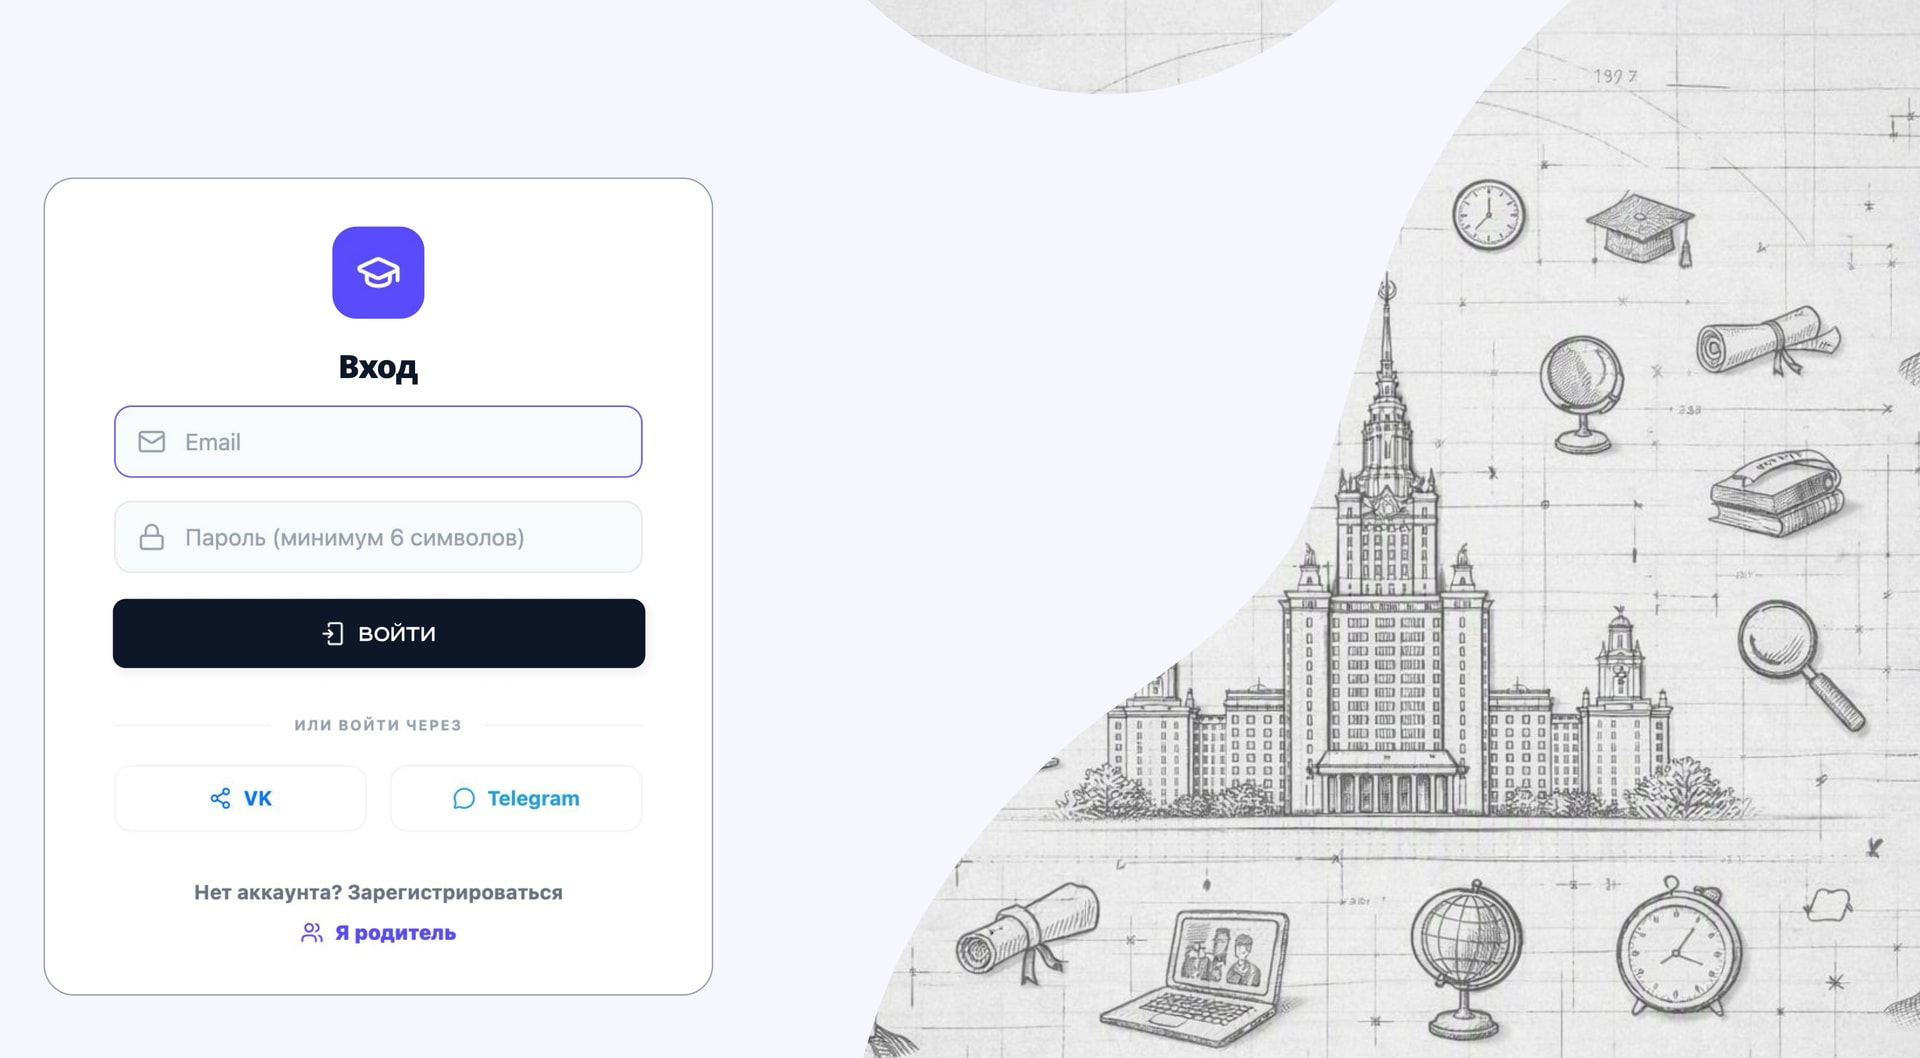
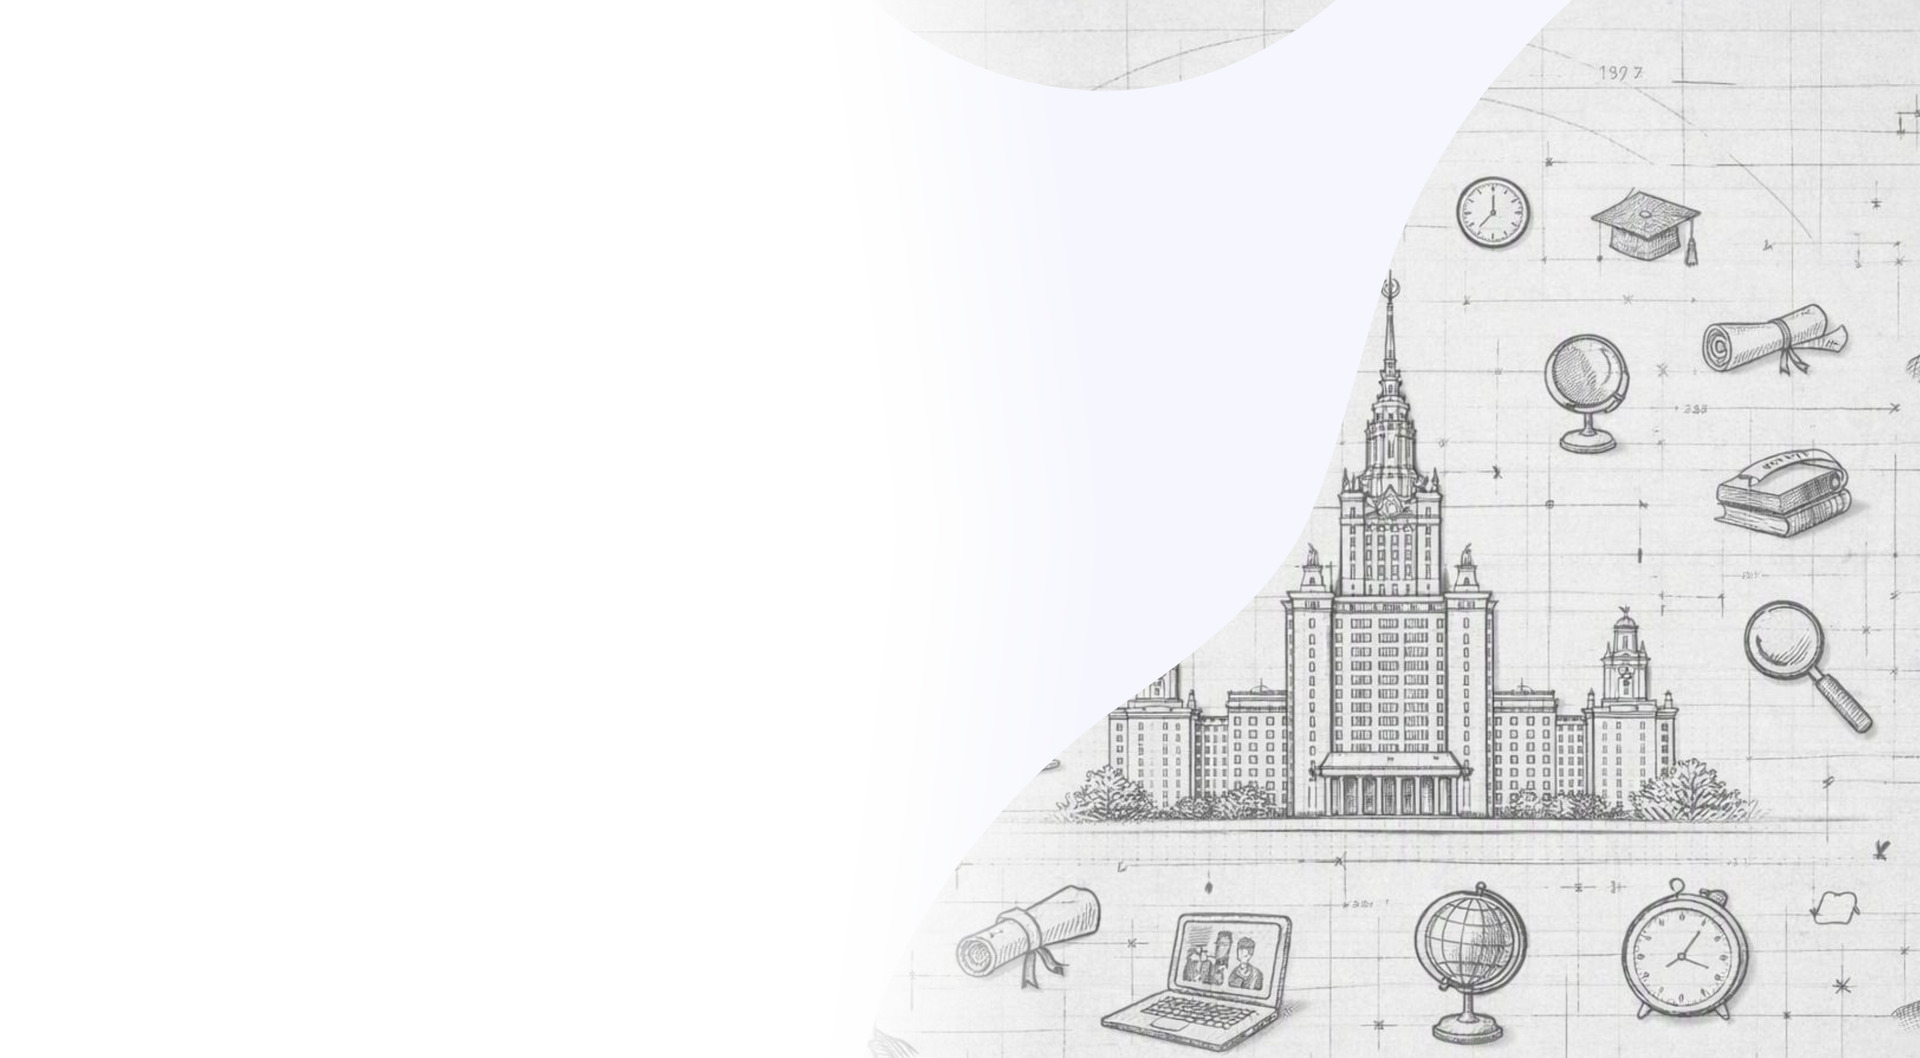
Fix double login form: clean bg + Figma 1:1 card.
Rebuild login-bg.jpg with white left (no baked form UI) and polish Login.tsx to a single interactive card matching Figma.

diff --git a/school-frontend/src/pages/Login.tsx b/school-frontend/src/pages/Login.tsx
@@ -1,21 +1,30 @@
 import { useState } from 'react';
 import { useNavigate } from 'react-router-dom';
-import { Mail, Lock, LogIn, Loader2, GraduationCap, Users, MessageCircle, User } from 'lucide-react';
+import { Mail, Lock, LogIn, Loader2, GraduationCap, Users, User } from 'lucide-react';
 import { decodeJwtPayload, setAuthTokens } from '../lib/auth';
 import { publicApi } from '../lib/api';
 
 type Mode = 'login' | 'register_student' | 'register_parent';
 
-/** Figma «Страница – вход» */
+/** Figma «Страница – вход» — exact field styles */
 const inputBase =
   'w-full pl-11 pr-4 py-[14px] rounded-[12px] outline-none font-medium text-[15px] text-[#1A1D26] placeholder:text-[#A0A4B0] transition-all';
 const inputIdle = `${inputBase} bg-[#F3F4F8] border border-transparent focus:bg-white focus:border-[#B8B4FF]`;
+/** Email in Figma mock: white fill + soft purple border (active/focused look) */
 const inputActive = `${inputBase} bg-white border border-[#B8B4FF] focus:border-[#6C63FF]`;
 
 function VkIcon({ className = 'w-5 h-5' }: { className?: string }) {
   return (
     <svg className={className} viewBox="0 0 24 24" fill="currentColor" aria-hidden>
       <path d="M12.785 16.241s.288-.032.436-.194c.136-.148.132-.427.132-.427s-.02-1.304.587-1.496c.596-.19 1.363 1.26 2.174 1.818.613.422 1.078.33 1.078.33l2.163-.03s1.13-.07.594-.958c-.044-.072-.312-.658-1.61-1.86-1.36-1.26-1.177-1.055.46-3.234.997-1.326 1.396-2.136 1.271-2.483-.119-.33-.85-.243-.85-.243l-2.437.015s-.18-.025-.314.056c-.13.078-.214.26-.214.26s-.384 1.022-.895 1.89c-1.078 1.83-1.51 1.928-1.687 1.814-.41-.266-.308-1.07-.308-1.64 0-1.782.27-2.523-.527-2.715-.265-.064-.46-.106-1.138-.113-.87-.009-1.605.003-2.022.207-.278.136-.492.438-.361.456.162.022.528.099.723.364.251.343.242 1.114.242 1.114s.144 2.115-.337 2.377c-.33.18-.783-.187-1.757-1.862-.498-.857-.874-1.806-.874-1.806s-.072-.177-.202-.272c-.157-.115-.377-.151-.377-.151l-2.316.015s-.347.01-.475.16c-.114.134-.009.41-.009.41s1.804 4.222 3.845 6.35c1.872 1.95 3.995 1.822 3.995 1.822h.964z" />
+    </svg>
+  );
+}
+
+function TelegramIcon({ className = 'w-5 h-5' }: { className?: string }) {
+  return (
+    <svg className={className} viewBox="0 0 24 24" fill="currentColor" aria-hidden>
+      <path d="M21.5 3.4 2.9 10.6c-1.3.5-1.3 1.2-.2 1.5l4.7 1.5 1.8 5.6c.2.7.4 1 1 1 .6 0 .9-.3 1.2-.6l2.8-2.7 5.8 4.3c1.1.6 1.8.3 2.1-1l3.4-16c.3-1.3-.5-1.9-1.6-1.5zM9.4 14.7l-.2 3.2-1.3-4.4 12.4-7.8-11 9z" />
     </svg>
   );
 }
@@ -76,26 +85,24 @@ export default function Login() {
   const title =
     mode === 'login' ? 'Вход' : mode === 'register_student' ? 'Регистрация' : 'Аккаунт родителя';
 
-  const emailLooksActive = mode === 'login';
-
   return (
-    <div className="relative min-h-[100dvh] w-full overflow-hidden font-sans bg-white lg:bg-[#E8E8EC]">
-      {/* Desktop: full-bleed Figma composition — overscan so edges stay flush */}
+    <div className="relative min-h-[100dvh] w-full overflow-hidden font-sans bg-white">
+      {/*
+        Desktop art: illustration + wave ONLY (form area painted white in login-bg.jpg).
+        One interactive card overlays the white left — never bake the form into the image.
+      */}
       <div
-        className="pointer-events-none absolute inset-0 hidden lg:block"
+        className="pointer-events-none absolute inset-0 hidden lg:block bg-white"
         style={{
-          backgroundColor: '#E8E8EC',
           backgroundImage: 'url(/login-bg.jpg)',
           backgroundSize: 'cover',
-          backgroundPosition: 'center',
+          backgroundPosition: 'center center',
           backgroundRepeat: 'no-repeat',
-          transform: 'scale(1.045)',
-          transformOrigin: 'center center',
         }}
         aria-hidden
       />
 
-      {/* Mobile background */}
+      {/* Mobile */}
       <div
         className="lg:hidden absolute inset-0"
         style={{
@@ -103,8 +110,9 @@ export default function Login() {
         }}
       />
 
-      <div className="relative z-10 min-h-[100dvh] flex items-center justify-center lg:justify-start px-4 sm:px-6 py-8 lg:pl-[7.5%] xl:pl-[9.5%]">
-        <div className="w-full max-w-[400px] bg-white border border-[#E5E7EB] rounded-[18px] shadow-[0_10px_36px_rgba(17,24,39,0.10)] px-6 py-8 sm:px-8 sm:py-9">
+      <div className="relative z-10 min-h-[100dvh] flex items-center justify-center lg:justify-start px-4 sm:px-6 py-8 lg:pl-[7%] xl:pl-[9%]">
+        {/* Single interactive card — Figma; never duplicate in background image */}
+        <div className="w-full max-w-[400px] bg-white border border-[#E8EAF0] rounded-[18px] shadow-[0_12px_40px_rgba(17,24,39,0.10)] px-6 py-8 sm:px-8 sm:py-9">
           <div className="w-12 h-12 bg-[#6C63FF] rounded-[12px] flex items-center justify-center mb-5 mx-auto shadow-[0_6px_18px_rgba(108,99,255,0.32)]">
             <GraduationCap className="w-6 h-6 text-white" strokeWidth={2} />
           </div>
@@ -170,7 +178,7 @@ export default function Login() {
                 required
                 placeholder="Email"
                 value={formData.email}
-                className={emailLooksActive ? inputActive : inputIdle}
+                className={mode === 'login' ? inputActive : inputIdle}
                 onChange={(e) => setFormData({ ...formData, email: e.target.value })}
               />
             </div>
@@ -207,7 +215,7 @@ export default function Login() {
             <button
               type="submit"
               disabled={isLoading}
-              className="w-full py-[15px] mt-1 bg-[#12151C] hover:bg-black text-white rounded-[12px] font-black uppercase tracking-[0.04em] text-[13px] sm:text-sm flex items-center justify-center gap-2.5 transition-all active:scale-[0.99] disabled:opacity-60"
+              className="w-full py-[15px] mt-1 bg-[#1A1F2B] hover:bg-[#12151C] text-white rounded-[12px] font-black uppercase tracking-[0.04em] text-[13px] sm:text-sm flex items-center justify-center gap-2.5 transition-all active:scale-[0.99] disabled:opacity-60"
             >
               {isLoading ? (
                 <Loader2 className="w-5 h-5 animate-spin" />
@@ -238,7 +246,7 @@ export default function Login() {
                   type="button"
                   className="flex items-center justify-center gap-2 py-[12px] border border-[#E6E8EF] rounded-[12px] bg-white hover:bg-[#F8F9FC] transition-all font-bold text-sm text-[#24A1DE]"
                 >
-                  <MessageCircle className="w-5 h-5" /> Telegram
+                  <TelegramIcon className="w-5 h-5" /> Telegram
                 </button>
               </div>
             </div>
